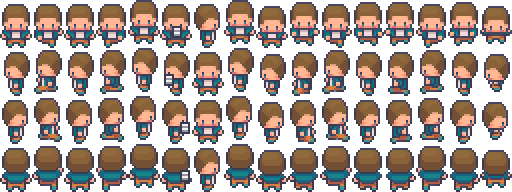
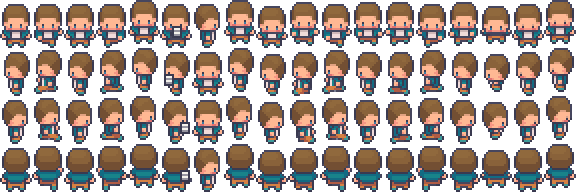
The class blinks
LimeZu's idle row blinks on its fifth frame (frames 2-3 are a breath,
4-5 the blink). limezu_chars.py now bakes that eyes-shut frame into every
sheet as two new columns: 16 standing, 17 seated (sheets are 18x4,
576x192). It is taken only where it changes nothing but the eyes, so the
two characters in glasses keep theirs open.

Actor.tick_blink() shuts a resting actor's eyes for 0.13s every 2.5-6.5s
(engine randf -- decoration, never Game.rng): seated with the head up, or
standing still. A held pose, a slump or a walk is never blinked over, and
an older, narrower sheet never blinks. The suite turns blinking off so a
frame assertion cannot catch someone mid-blink; a BLINKING section turns
it on and drives it by hand.

Verify.bat: suite 2441, docs 315/315, contract unmoved, walkthrough passed.

diff --git a/tools/limezu_chars.py b/tools/limezu_chars.py
@@ -39,6 +39,13 @@ WHAT MAPS TO WHAT (LimeZu row, direction order right/up/left/down, 6 frames each
                             instead of floating at sitting height. Adults have no such
                             row at index 3 (their sheets are 20 rows), so theirs is
                             derived: the seated frame with the head drooped.
+    col 16 blink            the standing frame with the eyes shut, and
+    col 17 sit blink        the seated one: LimeZu's idle row blinks on its fifth frame
+                            (frames 2-3 are a breath, 4-5 the blink), so this is HIS
+                            closed eye, not a drawn one. Taken only where frame 4 differs
+                            from frame 0 in a small box round the eyes (idle_blink());
+                            otherwise the open-eyed frame is repeated, and the game's
+                            blink simply shows no change.
     cols 9-14  walk         LimeZu's own six walk frames, in order (the real cycle:
                             the two big strides are frames 1 and 4, the other four
                             are the passing poses that give the body its bob).
@@ -84,7 +91,7 @@ ROW_IDLE, ROW_WALK = 1, 2                       # row 0 is a 32px header of prev
 ROW_SLEEP = 3                                   # kid sheets only: 6 frames, one direction
 CELL_H = 32
 FRAME_W, FRAME_H = 16, 24                       # the game's cell, in art pixels
-COLS = 16
+COLS = 18
 WALK_FRAMES = 6                                 # LimeZu's walk row: 6 frames per direction
 
 # LimeZu's keyline family. These (and fully transparent / soft-black shadow pixels)
@@ -263,8 +270,26 @@ def held_paper(frame, row_name):
     return f
 
 
+BLINK_FRAME = 4          # the idle row's frame with the eyes shut
+BLINK_BOX = (10, 4)      # art px: the most a blink may change, wide x tall
+
+
+def idle_blink(sheet, d):
+    """The idle row's eyes-shut cell for direction d, or the open one if that
+    frame changes more than a blink should (a breath, a shift) -- measured per
+    character, as the portrait blink is."""
+    rest = lz_cell(sheet, ROW_IDLE, d, 0)
+    shut = lz_cell(sheet, ROW_IDLE, d, BLINK_FRAME)
+    # alpha_only=False: an RGBA getbbox() looks at the alpha channel alone, and a
+    # blink changes colours, not the silhouette -- it would read as no change.
+    box = ImageChops.difference(rest.convert("RGBA"), shut.convert("RGBA")).getbbox(alpha_only=False)
+    if box is None or (box[2] - box[0]) > BLINK_BOX[0] or (box[3] - box[1]) > BLINK_BOX[1]:
+        return rest
+    return shut
+
+
 def build_frames(sheet, tuning, kind="kid"):
-    """-> {row_name: [16 frames of 16x24]} in the game's column order."""
+    """-> {row_name: [18 frames of 16x24]} in the game's column order."""
     sit_up = tuning.get("sit_up", 3)
     jump_up = tuning.get("jump_up", 3)
     # How far below the SEATED head the slumped head rests. Four art pixels
@@ -296,7 +321,11 @@ def build_frames(sheet, tuning, kind="kid"):
                 slump = droop(sit, rows=3)
         else:
             slump = droop(sit, rows=3)
-        out[row_name] = [stand, step_a, stand, step_b, sit, handoff, chat, jump, sad]             + walk + [slump]
+        shut = idle_blink(sheet, d)
+        blink = to_frame(shut)
+        sit_blink = to_frame(shut, up=sit_up)
+        out[row_name] = [stand, step_a, stand, step_b, sit, handoff, chat, jump, sad] \
+            + walk + [slump, blink, sit_blink]
     return out
 
 

diff --git a/docs/ART_STYLE_REFERENCE.md b/docs/ART_STYLE_REFERENCE.md
@@ -240,7 +240,7 @@ forbids redistributing them.
 |---|---|---|
 | `tools/import_limezu.py` | props, fixtures, hats -- one PNG each in `art/` | `tools/limezu_manifest.json` (`props`): a ref like `classroom#6` = the numbered *shadowless* single #6 of that theme, or a `sheet`+`rect` cut, or a `join`. An `anim` is the pack's own sheet, or one built from a still single: `swap` (two tones trade places in a band of rows -- the fan, the phone's light), `spin` (a globe's land and sea roll round, the shading stays), `sway` (rows below a hook slide a pixel either way). `drop_shadow` clears the flat `#a79796` shadow LimeZu bakes into his animated sheets |
 | `tools/limezu_room.py` | the 18 `tile_*.png` the room is stamped from | `tools/limezu_room.json` (which floor block, which wall set, which door/window) |
-| `tools/limezu_chars.py` | the 17 character sheets (15x4 cells of 32x48: 9 poses + the 6-frame walk) and their 96x96 HUD busts | `tools/limezu_cast.json` (body/eyes/outfit/hair/accessory ids + colour ramps) |
+| `tools/limezu_chars.py` | the character sheets (18x4 cells of 32x48: 9 poses, the 6-frame walk, the slump, and the standing/seated blink from LimeZu's idle row) and their 96x96 HUD busts | `tools/limezu_cast.json` (body/eyes/outfit/hair/accessory ids + colour ramps) |
 | `tools/limezu_ui.py` | UI pieces that need "their frame, our glyph" (the stuck "?" bubble) | the builders in the file |
 | `tools/import_free.py` | sprites from free packs that are not LimeZu's -- Midcentury furniture (a 32px pack: halved, then snapped to LimeZu's palette and keyline) and Ninja Adventure (16px: own colours, near-black recoloured to the keyline) | `tools/free_manifest.json` (`packs` with licence + credit, `props` with a `rect` cut; `anim` for a strip; `strip_only` for a particle that is only ever played) |
 

diff --git a/AGENTS.md b/AGENTS.md
@@ -145,7 +145,7 @@ PASSED** — a broken script can still print PASSED with a silently lower
 count. That has happened three times.
 
 ```
-Run Tests.bat            2431 assertions — must pass, count must not drop
+Run Tests.bat            2441 assertions — must pass, count must not drop
 Simulate a Term.bat      the three contract rows must still hold
 Play a Whole Term.bat    twenty real days through the real buttons, not sim.gd's model
 Trace a Day.bat          walks a real day through the real buttons
@@ -270,7 +270,7 @@ still looks armed is how the last one got missed.
 | `data/balance.json` | **Every tunable number** |
 | `data/curriculum.json` | 40 lessons, 120 concepts, real standard codes |
 | `data/room_templates.json` | **Room ideas** (shop tab, Tab x5): seven ready-made layouts of the opening room built from real shop items, for players to take inspiration from. `scripts/data/room_templates.gd` `problems()` checks each against the placement rules (also `tools/check_templates.tscn`, and the suite). Inspiration only: nothing is bought or moved |
-| `tests/run.gd` | The suite — 2431 assertions, 128 sections |
+| `tests/run.gd` | The suite — 2441 assertions, 129 sections |
 | `tools/` | Simulators, walkthroughs, the audit, art tools |
 | `docs/GDD.md` | **What the finished game is.** Read before designing. |
 | `docs/BRIEFING.md` | Context pack for external AIs |

diff --git a/CLAUDE.md b/CLAUDE.md
@@ -145,7 +145,7 @@ PASSED** — a broken script can still print PASSED with a silently lower
 count. That has happened three times.
 
 ```
-Run Tests.bat            2431 assertions — must pass, count must not drop
+Run Tests.bat            2441 assertions — must pass, count must not drop
 Simulate a Term.bat      the three contract rows must still hold
 Play a Whole Term.bat    twenty real days through the real buttons, not sim.gd's model
 Trace a Day.bat          walks a real day through the real buttons
@@ -270,7 +270,7 @@ still looks armed is how the last one got missed.
 | `data/balance.json` | **Every tunable number** |
 | `data/curriculum.json` | 40 lessons, 120 concepts, real standard codes |
 | `data/room_templates.json` | **Room ideas** (shop tab, Tab x5): seven ready-made layouts of the opening room built from real shop items, for players to take inspiration from. `scripts/data/room_templates.gd` `problems()` checks each against the placement rules (also `tools/check_templates.tscn`, and the suite). Inspiration only: nothing is bought or moved |
-| `tests/run.gd` | The suite — 2431 assertions, 128 sections |
+| `tests/run.gd` | The suite — 2441 assertions, 129 sections |
 | `tools/` | Simulators, walkthroughs, the audit, art tools |
 | `docs/GDD.md` | **What the finished game is.** Read before designing. |
 | `docs/BRIEFING.md` | Context pack for external AIs |

diff --git a/docs/ART_CATALOG.md b/docs/ART_CATALOG.md
@@ -37,9 +37,11 @@ trusting it's still accurate.
 
 One PNG per character, 4 rows of 32&times;48 cells. Procedural characters
 (`make_art.py`) are 288&times;192: 9 columns (`hframes=9`). LimeZu characters
-(`limezu_chars.py`) are 480&times;192: the same 9 columns plus the pack's own
-six-frame walk in columns 9-14 (`hframes=15`). `Actor` reads the column count
-off the texture width, so both play. Same layout for everyone because a
+(`limezu_chars.py`) are 576&times;192: the same 9 columns plus the pack's own
+six-frame walk in columns 9-14, the slump in 15, and (Oct 2026) the standing and
+seated frames with the eyes shut in 16-17 -- LimeZu's idle row blinks, and
+`Actor.tick_blink()` shows it for a beat every few seconds. `Actor` reads the
+column count off the texture width, so every width plays. Same layout for everyone because a
 character is a palette through one shared `draw_char()`, not separate artwork.
 
 *(Sept 2026, the pixel-grid pass.)* Each frame is BUILT at 32&times;48

diff --git a/docs/GDD.md b/docs/GDD.md
@@ -1,6 +1,6 @@
 # EDUSystem — Game Design Document
 
-> **Measured on 2026-10-07**, against build `b45`, with **2431 assertions
+> **Measured on 2026-10-07**, against build `b45`, with **2441 assertions
 > passing**. Every number in this document is quoted from `data/balance.json`
 > or from a tool's own output, with the source named. Anything not yet built
 > is marked ***(to build)*** — if it is not marked, it exists and you can go
@@ -355,7 +355,7 @@ milestone and having taught it, not a number going up.
 | Art | 224 PNGs · Audio: 20 WAVs (11 SFX, 9 music/ambience) |
 | Screens | 23 modes |
 | Input actions | 27 (26 rebindable) |
-| Tests | **2431 assertions** across **128 sections** |
+| Tests | **2441 assertions** across **129 sections** |
 
 ### What is on offer, everywhere
 *Verbatim from `tools/audit.gd`, which stands at every landmark in every

diff --git a/.claude/skills/integrate-art-pack/SKILL.md b/.claude/skills/integrate-art-pack/SKILL.md
@@ -74,7 +74,7 @@ Check the three things that decide whether a pack's characters can be used:
    (handoff, chat, jump, sad). A pack rarely has them; derive the missing ones from the idle
    frame (`limezu_chars.py` does: sit raised, paper held out, turned head, raised, sunk head).
 3. **Architecture** -- a layered paper-doll pack is fine: stack the layers offline and save
-   ONE flat sheet (15x4 for LimeZu: 9 poses + the pack's 6 walk frames). The game never composites at runtime.
+   ONE flat sheet (18x4 for LimeZu: 9 poses, the pack's 6 walk frames, a slump, two blinks). The game never composites at runtime.
 
 Skin/hair that the pack lacks (black hair, deep skin) come from a colour **ramp**: rank the
 layer's fill colours by brightness and re-map them onto a target ramp, keyline untouched.

diff --git a/docs/SALVAGE.md b/docs/SALVAGE.md
@@ -16,7 +16,7 @@ does not have.
 ## The premise correction that matters most
 
 **EDUSystem is not a port in progress.** It is a finished, working Godot
-4.7 game: 2431 assertions, 55 items, 40 lessons, 120 concepts, a balance
+4.7 game: 2441 assertions, 55 items, 40 lessons, 120 concepts, a balance
 contract measured from simulated play, and five verification tools.
 
 Any advice framed as "how to move EduSystems into Godot" is answering a

diff --git a/GEMINI.md b/GEMINI.md
@@ -66,7 +66,7 @@ in `NEED FROM YOU` and stop rather than deciding it yourself.
 ## Verifying, always
 
 ```
-Run Tests.bat            2431 assertions — read the COUNT, not the word PASSED
+Run Tests.bat            2441 assertions — read the COUNT, not the word PASSED
 Simulate a Term.bat      the three contract rows must still hold
 Play a Whole Term.bat    prints WALKTHROUGH PASSED / FAILED and exits on it
 python tools/check_docs.py

diff --git a/README.md b/README.md
@@ -437,7 +437,7 @@ re-scraped so the citations stay the verified ones.
 ## Running things
 
 ```
-Run Tests.bat            2431 assertions
+Run Tests.bat            2441 assertions
 Simulate a Term.bat      plays whole terms and prints the curves
 Browse Art.bat           every sprite on one screen, with what uses it
 Open in Godot Editor.bat
